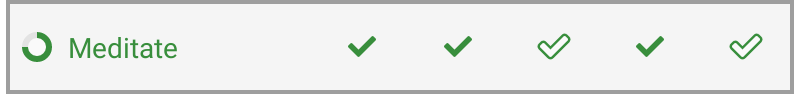
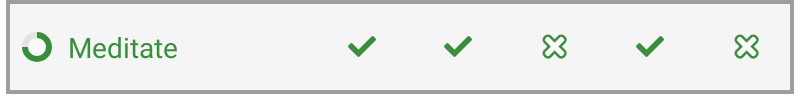
Use cross to represent auto tick

Changed region(s): [[0.9062, 0.33, 0.9688, 0.6], [0.6562, 0.33, 0.7188, 0.6]]

diff --git a/uhabits-android/src/main/java/org/isoron/uhabits/activities/habits/list/views/CheckmarkButtonView.kt b/uhabits-android/src/main/java/org/isoron/uhabits/activities/habits/list/views/CheckmarkButtonView.kt
@@ -138,7 +138,7 @@ class CheckmarkButtonView(
             }
             val id = when (value) {
                 SKIP -> R.string.fa_skipped
-                NO -> R.string.fa_times
+                NO, YES_AUTO -> R.string.fa_times
                 UNKNOWN -> {
                     if (preferences.areQuestionMarksEnabled) R.string.fa_question
                     else R.string.fa_times
